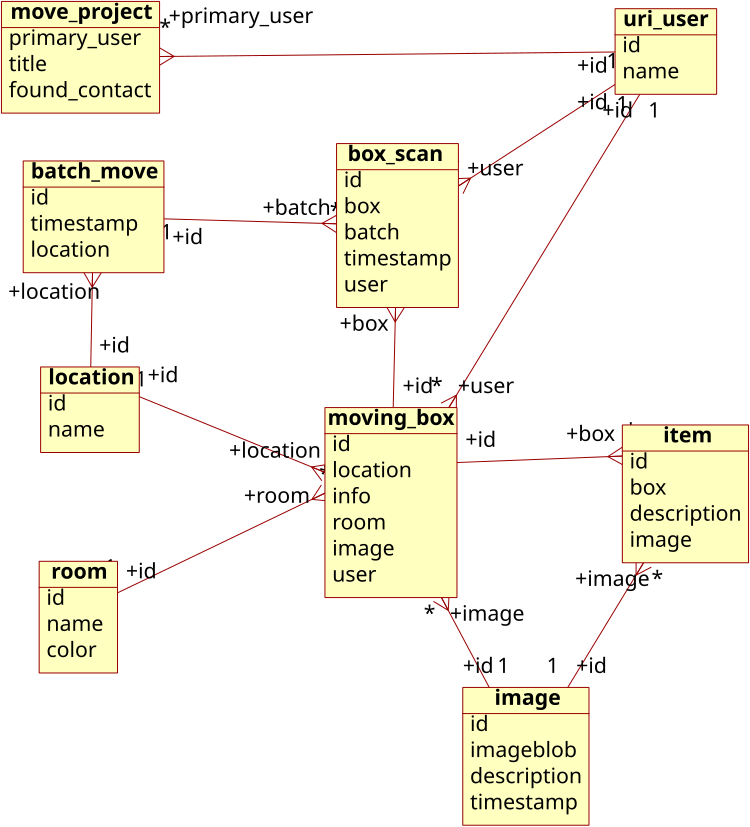
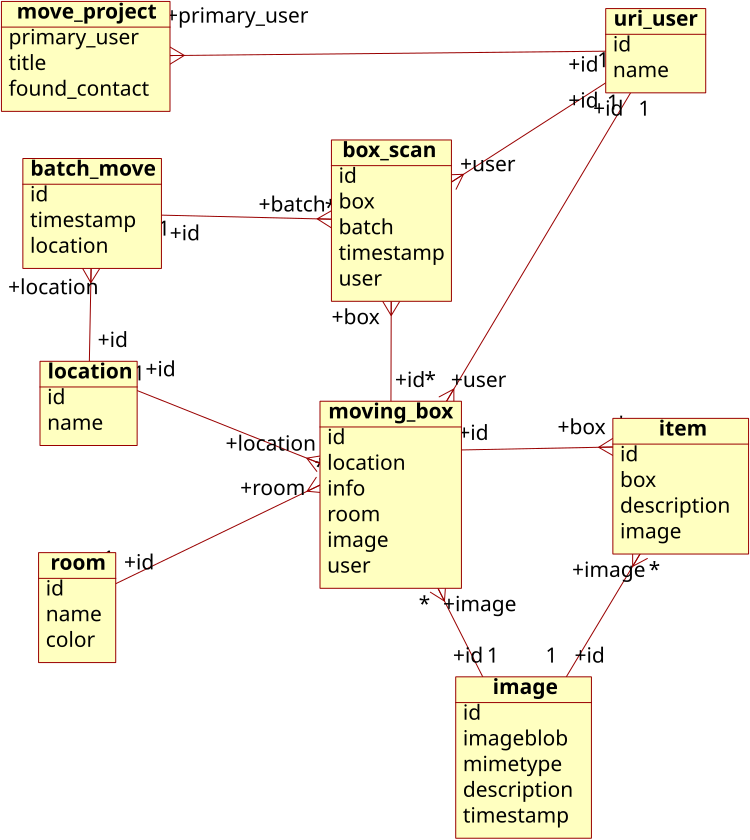
start on adding new mimetype field to image table - work in progress

diff --git a/cli/src/moveboxtracker/db.py b/cli/src/moveboxtracker/db.py
@@ -39,6 +39,7 @@ MBT_SCHEMA = {  # moveboxtracker SQL schema, used by _init_db() method
         "id INTEGER PRIMARY KEY NOT NULL,"
         "imageblob blob NOT NULL,"
         "crc32 integer UNIQUE NOT NULL,"
+        "mimetype text NOT NULL,"
         "description text,"
         "timestamp datetime NOT NULL DEFAULT CURRENT_TIMESTAMP"
         ");",
@@ -447,8 +448,12 @@ class MoveDbImage(MoveDbRecord):
             "required": True,
             "generate": "gen_crc32",
         },  # forward reference as str
+        "mimetype": {},
         "description": {"prompt": "image description"},
-        "timestamp": {},
+        "timestamp": {
+            "required": True,
+            "generate": "gen_mimetype",
+        },  # forward reference as str
     }
 
     def read_image_file(self, image_path: Path) -> (bytes, str):
@@ -496,6 +501,14 @@ class MoveDbImage(MoveDbRecord):
                 "imageblob not found in query data - can't generate crc32 value"
             )
         data["crc32"] = crc32(data["imageblob"])
+
+    def gen_mimetype(self, data: dict) -> str:
+        """get mimetype from image data"""
+        if "mimetype" not in data:
+            raise RuntimeError(
+                "mimetype not found in query data - can't generate value"
+            )
+        data["mimetype"] = data["mimetype"]
 
 
 class MoveDbLocation(MoveDbRecord):
